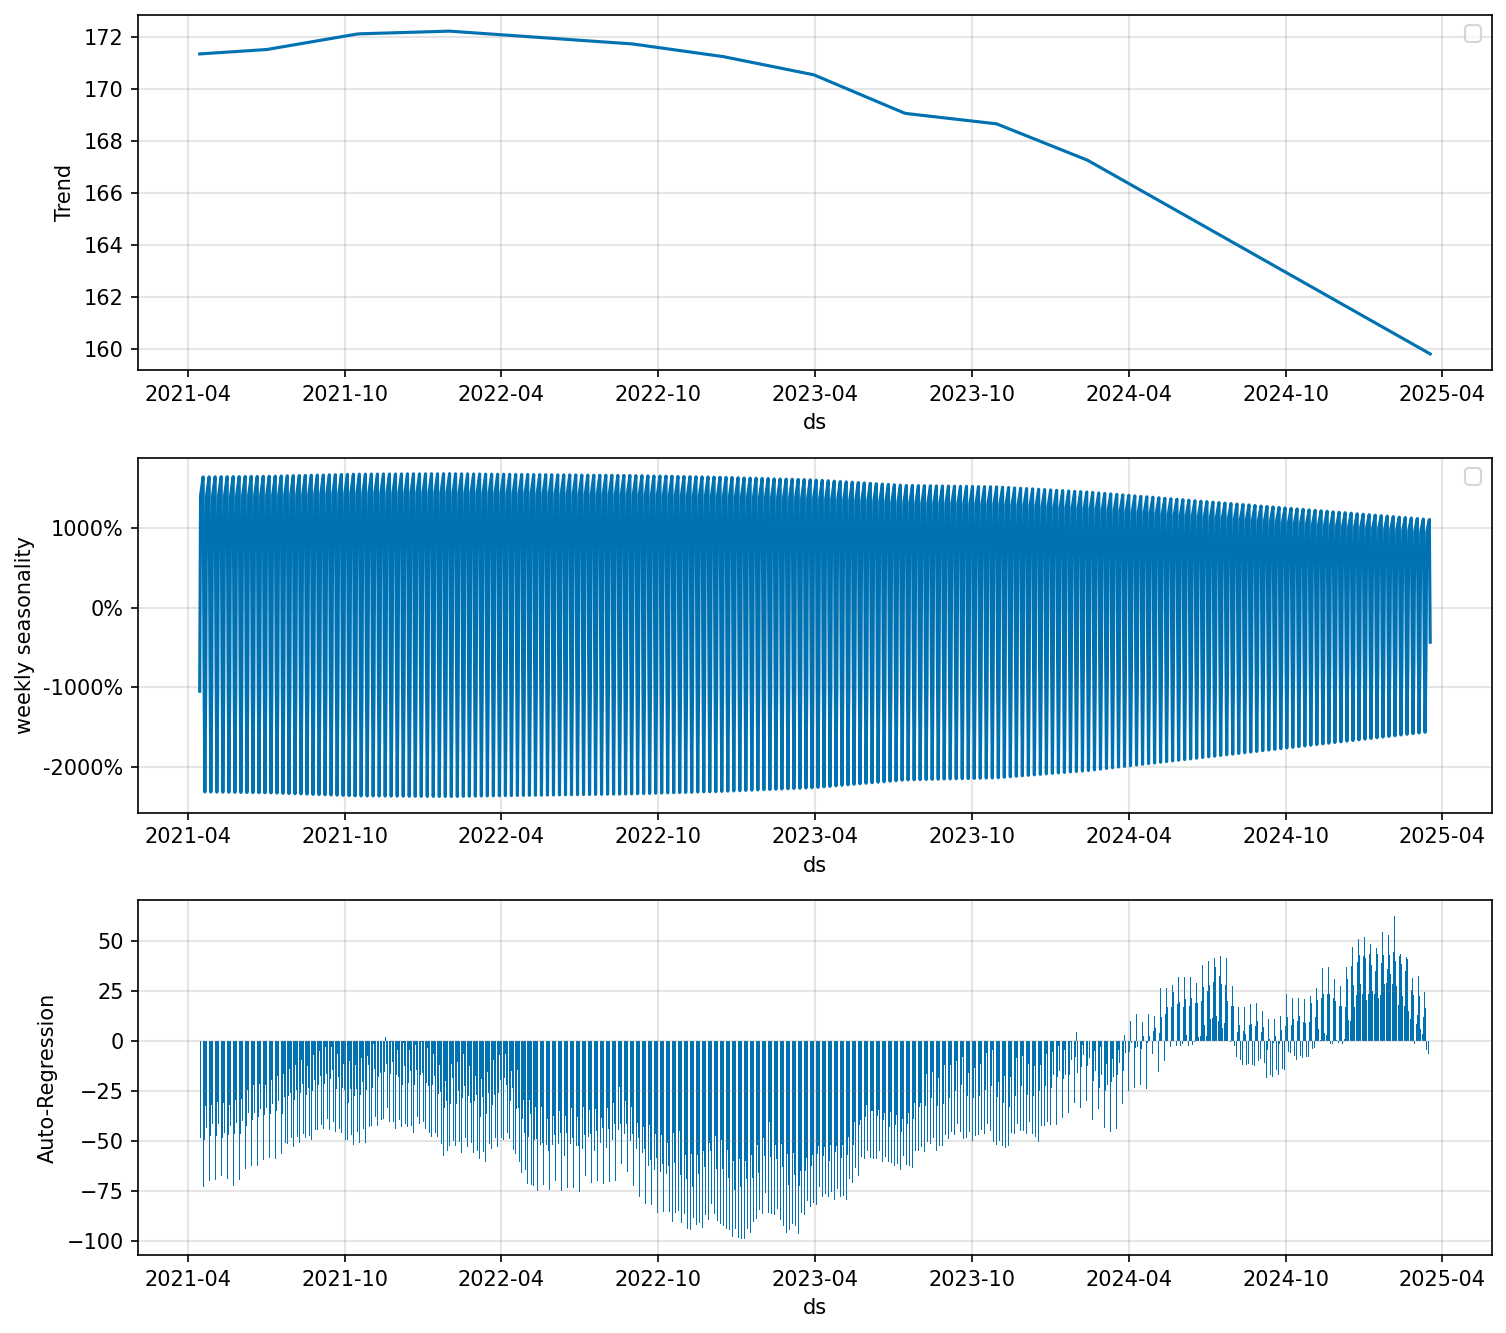
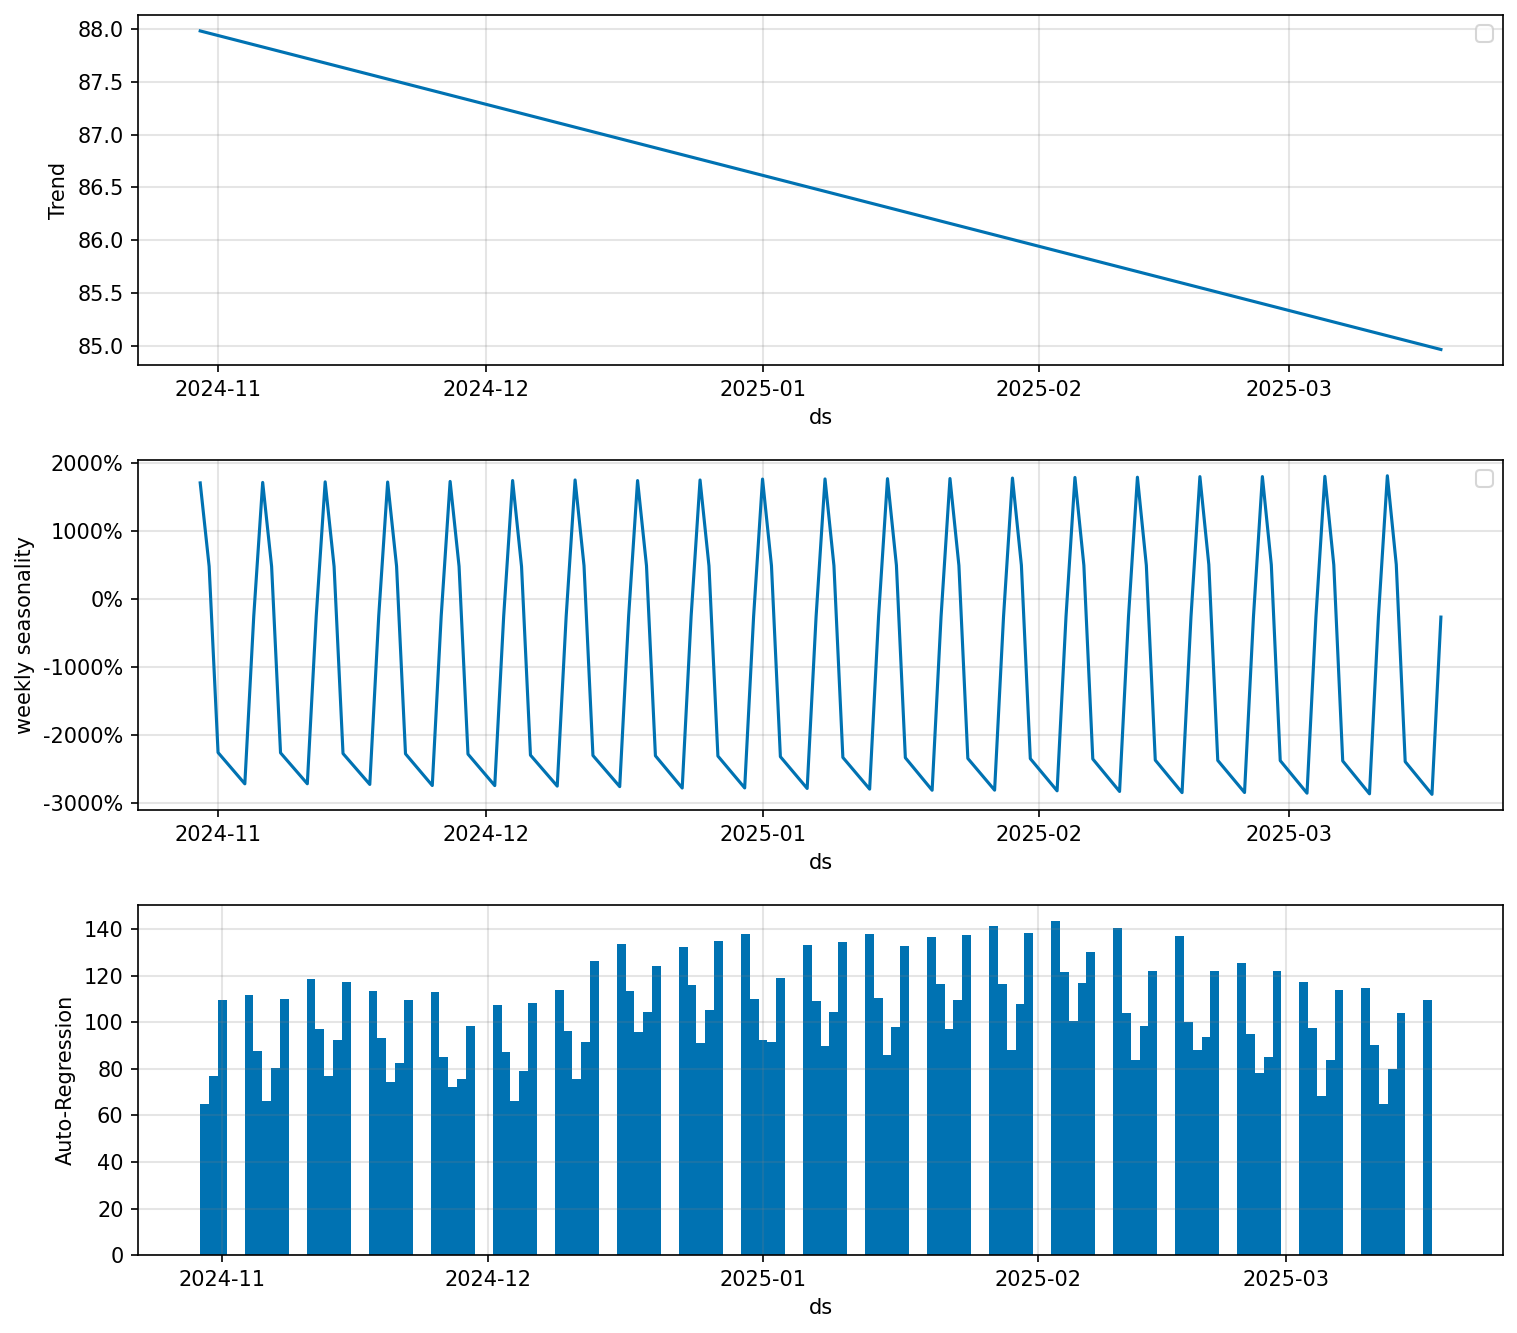
feat(viz): improve visualization by adding zoomed components and clearer prediction plots

diff --git a/src/train_predict.py b/src/train_predict.py
@@ -126,7 +126,9 @@ def main() -> None:
     # =========================
     # 📊 畫圖（Components）
     # =========================
-    model.plot_components(forecast, plotting_backend="matplotlib")
+    # 只取最近 200 天
+    recent_forecast = forecast.tail(100)
+    model.plot_components(recent_forecast, plotting_backend="matplotlib")
     components_path = project_root / "components_v2.png"
     plt.savefig(components_path, dpi=150, bbox_inches="tight")
     plt.close()
